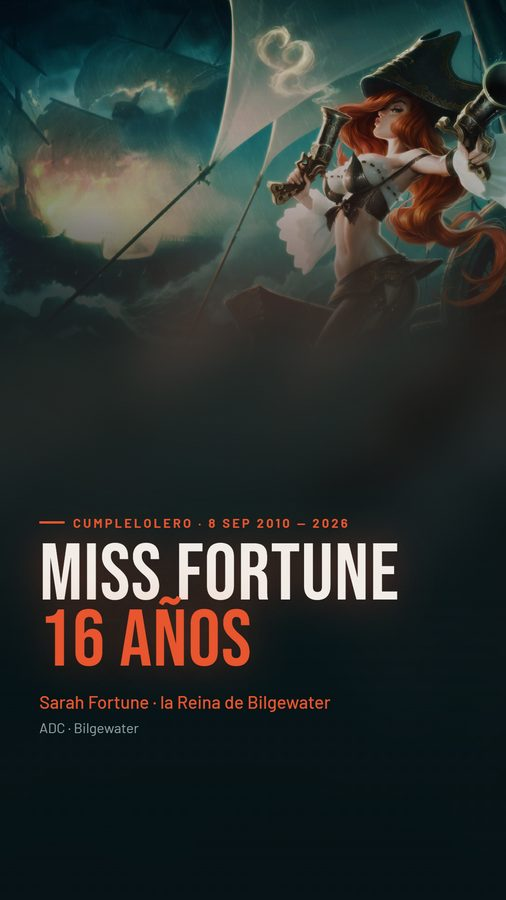
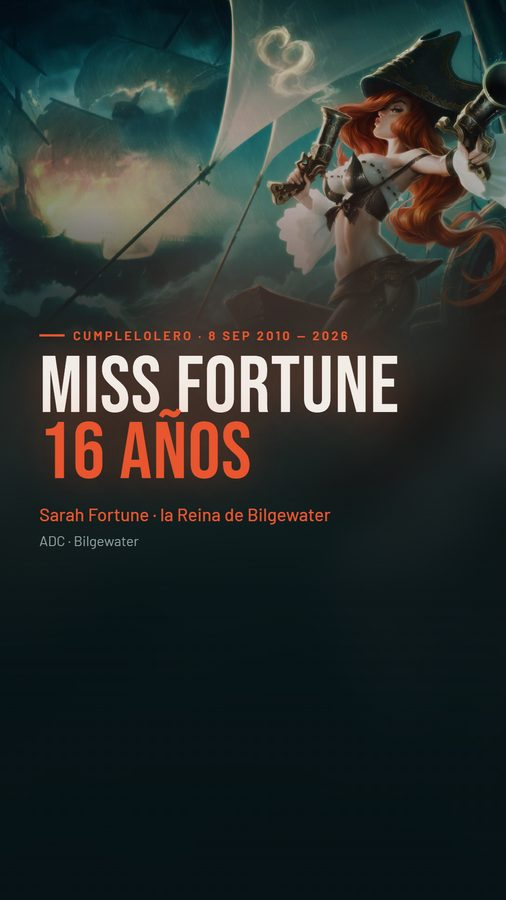
Syndra: titular arriba y el historial de rangos del one trick
El titular de portada y cierre se quedaba flotando abajo con un hueco
grande entre la imagen y el texto. Sin margin-top auto el bloque se
centra en la banda segura y aterriza justo donde la imagen se
desvanece. Mismo arreglo en missfortune, que tenia el mismo patron.

Y faltaba data: el historial de temporadas del one trick estaba
definido en el generador pero nunca se uso, porque la lamina del OTP
se quedo solo con la comparacion de puntos y ya no tenia sitio. Ahora
tiene lamina propia con las seis temporadas y sus emblemas, la racha
de la ultima semana y el bloque LATAM. El deck pasa a once laminas.

El array de rangos venia sin el nombre del emblema y el QA lo cazo:
las rutas salian como assets/emblems/true.

Changed region(s): [[0.0593, 0.3422, 0.8004, 0.7467], [0.0593, 0.7778, 0.6522, 0.84]]

diff --git a/syndra/index.html b/syndra/index.html
@@ -42,7 +42,7 @@
     <div style="position: absolute; inset: 0; background: linear-gradient(180deg, rgba(13,10,26,0.18) 0%, rgba(13,10,26,0.42) 34%, rgba(13,10,26,0.92) 66%, rgba(13,10,26,0.99) 100%);"></div>
     </div>
     <div data-a="ghost" style="position: absolute; inset: 0; background: radial-gradient(120% 45% at 50% 30%, #C9A7FF29 0%, rgba(0,0,0,0) 65%); pointer-events: none;"></div>
-    <div style="position: relative; margin-top: auto;">
+    <div style="position: relative;">
       <div data-a="up" style="display: flex; align-items: center; gap: 18px; margin-bottom: 26px;">
       <span style="width: 54px; height: 5px; background: #C9A7FF;"></span>
       <span style="font-family: 'Barlow', ui-sans-serif, system-ui, sans-serif; font-size: 27px; font-weight: 700; letter-spacing: 5px; text-transform: uppercase; color: #C9A7FF;">Cumplelolero · 9 sep 2012 — 2026</span>
@@ -249,7 +249,7 @@
         <span style="font-family: 'Bebas Neue', Impact, sans-serif; font-size: 88px; line-height: 0.95; color: #EFEAF7;">HUGH AKSTON</span>
         <span style="font-family: 'Bebas Neue', Impact, sans-serif; font-size: 88px; line-height: 0.95; color: #C9A7FF;">#NA1</span>
       </div>
-      <p data-nombre style="margin: 12px 0 0; font-size: 27px; font-weight: 500; color: #9187A3;">Norteamérica · Master 130 LP · top 0,58% del servidor · 85% mid</p>
+      <p data-nombre style="margin: 12px 0 0; font-size: 27px; font-weight: 500; color: #9187A3;">Norteamérica · nivel de invocador 1 386 · 85% mid · 98% maga</p>
 
       <div style="margin-top: 34px; display: flex; gap: 20px;">
         <div data-panel style="flex: 1; min-width: 0; padding: 30px 26px; border-radius: 18px; background: #171029D9; border: 1px solid rgba(201,167,255,0.28);">
@@ -273,7 +273,69 @@
         <div style="flex: 1; font-size: 26px; font-weight: 400; color: #9187A3; line-height: 1.4;">Es <strong style="color: #EFEAF7;">el dominio más aplastante</strong> de su propio ranking en toda la serie.</div>
       </div>
 
-      <div data-latam style="margin-top: 30px; display: flex; align-items: center; gap: 22px; padding: 24px 28px; border-radius: 18px; background: #8B3FD11F; border: 1px solid #8B3FD180;">
+    </div>
+  </section>
+
+  <section data-label="Y este sí es bueno" data-screen-label="09 · El rango" data-speaker-notes="Y este si es bueno, esta en Master y es top cero punto cinco por ciento de su servidor. Y el dato que nos toca, porque el cuarto mejor Syndra del mundo es del servidor del sur." style="background: #0D0A1A; font-family: 'Barlow', ui-sans-serif, system-ui, sans-serif; color: #EFEAF7; display: flex; flex-direction: column; justify-content: center; padding: 300px 84px 350px; box-sizing: border-box; overflow: hidden; ">
+    <div data-a="ghost" style="position: absolute; inset: 0; background: radial-gradient(115% 55% at 50% 40%, #C9A7FF29 0%, rgba(0,0,0,0) 65%); pointer-events: none;"></div>
+    <div style="position: relative;">
+      <div data-a="up" style="display: flex; align-items: center; gap: 18px; margin-bottom: 26px;">
+      <span style="width: 54px; height: 5px; background: #C9A7FF;"></span>
+      <span style="font-family: 'Barlow', ui-sans-serif, system-ui, sans-serif; font-size: 27px; font-weight: 700; letter-spacing: 5px; text-transform: uppercase; color: #C9A7FF;">Y este sí es bueno</span>
+    </div>
+      <h2 data-a="up2" style="margin: 0; font-family: 'Bebas Neue', Impact, sans-serif; font-size: 88px; font-weight: 400; line-height: 0.92; letter-spacing: 1px; text-transform: uppercase; color: #EFEAF7;">Master, y <span style="color: #C9A7FF;">top 0,58%</span><br>de su servidor</h2>
+
+      <div style="margin-top: 40px; display: flex; flex-direction: column; gap: 12px;">
+        
+        <div data-rango style="display: flex; align-items: center; gap: 16px; padding: 12px 18px; border-radius: 14px; background: #C9A7FF1A; border: 1px solid #C9A7FF66;">
+          <img data-src="assets/emblems/master.png" alt="Master · 130 LP" style="width: 62px; height: 62px; object-fit: contain; flex: none;">
+          <span style="flex: none; width: 118px; font-size: 24px; font-weight: 600; color: #9187A3;">S2026</span>
+          <span style="flex: 1; font-size: 29px; font-weight: 700; color: #C9A7FF;">Master · 130 LP  ◄</span>
+        </div>
+        <div data-rango style="display: flex; align-items: center; gap: 16px; padding: 12px 18px; border-radius: 14px; border: 1px solid rgba(255,255,255,0.06);">
+          <img data-src="assets/emblems/emerald.png" alt="Esmeralda 1" style="width: 62px; height: 62px; object-fit: contain; flex: none;">
+          <span style="flex: none; width: 118px; font-size: 24px; font-weight: 600; color: #9187A3;">S2025</span>
+          <span style="flex: 1; font-size: 29px; font-weight: 500; color: #EFEAF7;">Esmeralda 1</span>
+        </div>
+        <div data-rango style="display: flex; align-items: center; gap: 16px; padding: 12px 18px; border-radius: 14px; border: 1px solid rgba(255,255,255,0.06);">
+          <img data-src="assets/emblems/diamond.png" alt="Diamante 4" style="width: 62px; height: 62px; object-fit: contain; flex: none;">
+          <span style="flex: none; width: 118px; font-size: 24px; font-weight: 600; color: #9187A3;">S2024 S3</span>
+          <span style="flex: 1; font-size: 29px; font-weight: 500; color: #EFEAF7;">Diamante 4</span>
+        </div>
+        <div data-rango style="display: flex; align-items: center; gap: 16px; padding: 12px 18px; border-radius: 14px; border: 1px solid rgba(255,255,255,0.06);">
+          <img data-src="assets/emblems/emerald.png" alt="Esmeralda 2" style="width: 62px; height: 62px; object-fit: contain; flex: none;">
+          <span style="flex: none; width: 118px; font-size: 24px; font-weight: 600; color: #9187A3;">S2024 S2</span>
+          <span style="flex: 1; font-size: 29px; font-weight: 500; color: #EFEAF7;">Esmeralda 2</span>
+        </div>
+        <div data-rango style="display: flex; align-items: center; gap: 16px; padding: 12px 18px; border-radius: 14px; border: 1px solid rgba(255,255,255,0.06);">
+          <img data-src="assets/emblems/diamond.png" alt="Diamante 3" style="width: 62px; height: 62px; object-fit: contain; flex: none;">
+          <span style="flex: none; width: 118px; font-size: 24px; font-weight: 600; color: #9187A3;">S2024 S1</span>
+          <span style="flex: 1; font-size: 29px; font-weight: 500; color: #EFEAF7;">Diamante 3</span>
+        </div>
+        <div data-rango style="display: flex; align-items: center; gap: 16px; padding: 12px 18px; border-radius: 14px; background: #C9A7FF1A; border: 1px solid #C9A7FF66;">
+          <img data-src="assets/emblems/master.png" alt="Master" style="width: 62px; height: 62px; object-fit: contain; flex: none;">
+          <span style="flex: none; width: 118px; font-size: 24px; font-weight: 600; color: #9187A3;">S2023 S2</span>
+          <span style="flex: 1; font-size: 29px; font-weight: 700; color: #C9A7FF;">Master  ◄</span>
+        </div>
+      </div>
+
+      <div data-racha style="margin-top: 30px; display: flex; gap: 16px;">
+        
+        <div style="flex: 1; padding: 20px 14px; border-radius: 14px; background: rgba(255,255,255,0.03); border: 1px solid rgba(255,255,255,0.08); text-align: center;">
+          <div style="font-family: 'Bebas Neue', Impact, sans-serif; font-size: 50px; line-height: 1; color: #C9A7FF;">8 V — 2 D</div>
+          <div style="margin-top: 4px; font-size: 19px; font-weight: 600; letter-spacing: 1px; text-transform: uppercase; color: #9187A3;">la última semana</div>
+        </div>
+        <div style="flex: 1; padding: 20px 14px; border-radius: 14px; background: rgba(255,255,255,0.03); border: 1px solid rgba(255,255,255,0.08); text-align: center;">
+          <div style="font-family: 'Bebas Neue', Impact, sans-serif; font-size: 50px; line-height: 1; color: #C9A7FF;">70 %</div>
+          <div style="margin-top: 4px; font-size: 19px; font-weight: 600; letter-spacing: 1px; text-transform: uppercase; color: #9187A3;">en sus últimas 20</div>
+        </div>
+        <div style="flex: 1; padding: 20px 14px; border-radius: 14px; background: rgba(255,255,255,0.03); border: 1px solid rgba(255,255,255,0.08); text-align: center;">
+          <div style="font-family: 'Bebas Neue', Impact, sans-serif; font-size: 50px; line-height: 1; color: #C9A7FF;">122×</div>
+          <div style="margin-top: 4px; font-size: 19px; font-weight: 600; letter-spacing: 1px; text-transform: uppercase; color: #9187A3;">más que su 2º campeón</div>
+        </div>
+      </div>
+
+      <div data-latam style="margin-top: 28px; display: flex; align-items: center; gap: 22px; padding: 24px 28px; border-radius: 18px; background: #8B3FD11F; border: 1px solid #8B3FD180;">
         <span style="flex: none; font-family: 'Bebas Neue', Impact, sans-serif; font-size: 54px; line-height: 1; color: #C9A7FF;">#4</span>
         <span style="flex: none; background: #C9A7FF; color: #0D0A1A; font-size: 21px; font-weight: 800; border-radius: 8px; padding: 5px 14px; letter-spacing: 1px;">LAS</span>
         <span style="flex: 1; font-size: 27px; font-weight: 400; color: #9187A3; line-height: 1.35;">Y el dato que nos toca: <strong style="color: #EFEAF7;">el cuarto mejor Syndra del mundo</strong> es del servidor del sur.</span>
@@ -281,7 +343,7 @@
     </div>
   </section>
 
-  <section data-label="Las skins" data-screen-label="09 · Las skins" data-speaker-notes="De skins tiene trece en total y nueve que puedes comprar, que te saldrian en unos ochenta y tres dolares. Pero la buena esta en la boveda, porque Syndra tiene skin de campeon del mundo. Cuando SKT gano el mundial de dos mil dieciseis, Faker la eligio para su coleccion." style="background: #0D0A1A; font-family: 'Barlow', ui-sans-serif, system-ui, sans-serif; color: #EFEAF7; display: flex; flex-direction: column; justify-content: center; padding: 300px 84px 350px; box-sizing: border-box; overflow: hidden; ">
+  <section data-label="Las skins" data-screen-label="10 · Las skins" data-speaker-notes="De skins tiene trece en total y nueve que puedes comprar, que te saldrian en unos ochenta y tres dolares. Pero la buena esta en la boveda, porque Syndra tiene skin de campeon del mundo. Cuando SKT gano el mundial de dos mil dieciseis, Faker la eligio para su coleccion." style="background: #0D0A1A; font-family: 'Barlow', ui-sans-serif, system-ui, sans-serif; color: #EFEAF7; display: flex; flex-direction: column; justify-content: center; padding: 300px 84px 350px; box-sizing: border-box; overflow: hidden; ">
     <div data-a="ghost" style="position: absolute; inset: 0; background: radial-gradient(115% 58% at 50% 38%, #C9A7FF29 0%, rgba(0,0,0,0) 65%); pointer-events: none;"></div>
     <div style="position: relative;">
       <div data-a="up" style="display: flex; align-items: center; gap: 18px; margin-bottom: 26px;">
@@ -347,7 +409,7 @@
     </div>
   </section>
 
-  <section data-label="Cierre" data-screen-label="10 · Cierre" data-speaker-notes="Ni pedo, solo queda decir gigi easy, tirenme un follow o les voy a meter la cuarta, chao." style="background: #0D0A1A; font-family: 'Barlow', ui-sans-serif, system-ui, sans-serif; color: #EFEAF7; display: flex; flex-direction: column; justify-content: center; padding: 300px 84px 350px; box-sizing: border-box; overflow: hidden; align-items: center; text-align: center;">
+  <section data-label="Cierre" data-screen-label="11 · Cierre" data-speaker-notes="Ni pedo, solo queda decir gigi easy, tirenme un follow o les voy a meter la cuarta, chao." style="background: #0D0A1A; font-family: 'Barlow', ui-sans-serif, system-ui, sans-serif; color: #EFEAF7; display: flex; flex-direction: column; justify-content: center; padding: 300px 84px 350px; box-sizing: border-box; overflow: hidden; align-items: center; text-align: center;">
     
     <div style="position: absolute; inset: 0; overflow: hidden; pointer-events: none;">
     <div data-fondo style="position: absolute; inset: -60px; background-image: url('assets/Syndra_44.jpg'); background-size: cover; background-position: center; background-repeat: no-repeat; filter: blur(46px) saturate(0.8) brightness(0.4); transform: scale(1.08);" role="img" aria-label="Syndra Flor Espiritual"></div>
@@ -529,9 +591,18 @@
     tl.from(s.querySelector('[data-a="up"]'), { y: 24, opacity: 0, duration: 0.5 }, 0)
       .from(q(s, '[data-nombre]'), { y: 26, opacity: 0, duration: 0.55, stagger: 0.08 }, 0.08)
       .from(q(s, '[data-panel]'), { y: 30, opacity: 0, duration: 0.6, stagger: 0.14 }, 0.28)
-      .from(s.querySelector('[data-ventaja]'), { y: 26, opacity: 0, duration: 0.6 }, 0.86)
-      .from(s.querySelector('[data-latam]'), { x: -30, opacity: 0, duration: 0.6 }, 1.12);
+      .from(s.querySelector('[data-ventaja]'), { y: 26, opacity: 0, duration: 0.6 }, 0.9);
     cuentaMil(tl, s.querySelector('[data-cuenta]'), 0.42, 0.9);
+  });
+
+  // El historial: las temporadas caen en cascada y la racha y el bloque LATAM
+  // llegan después, para que primero se lea que nunca bajó de Diamante.
+  animar('Y este sí es bueno', function (tl, s) {
+    tl.from(s.querySelector('[data-a="up"]'), { y: 24, opacity: 0, duration: 0.5 }, 0)
+      .from(s.querySelector('[data-a="up2"]'), { y: 30, opacity: 0, duration: 0.6 }, 0.1)
+      .from(q(s, '[data-rango]'), { x: 28, opacity: 0, duration: 0.42, stagger: 0.09 }, 0.32)
+      .from(s.querySelector('[data-racha]'), { y: 24, opacity: 0, duration: 0.5 }, 0.92)
+      .from(s.querySelector('[data-latam]'), { x: -30, opacity: 0, duration: 0.55 }, 1.12);
   });
 
   animar('Las skins', function (tl, s) {

diff --git a/syndra/gen.js b/syndra/gen.js
@@ -92,7 +92,7 @@ slides.push(`
   <section data-label="Portada" data-screen-label="01 · Portada" data-speaker-notes="Hoy es cumpleanos de Syndra, que lleva catorce anos desde que llego a la Grieta del Invocador, y toca darle sus tres minutos de atencion." style="${seccion()}">
     ${portada('Syndra_0.jpg', 'Syndra, la Soberana Oscura')}
     ${glow(ORBE, '50% 30%', '120% 45%')}
-    <div style="position: relative; margin-top: auto;">
+    <div style="position: relative;">
       ${eyebrow('Cumplelolero · 9 sep 2012 — 2026')}
       <h1 style="margin: 0; font-family: ${DISPLAY}; font-size: 196px; font-weight: 400; line-height: 0.82; letter-spacing: 2px; color: ${BONE}; text-shadow: 0 0 90px rgba(201,167,255,0.45);"><span data-linea style="display: block;">SYNDRA</span><span data-linea style="display: block; color: ${ORBE};">14 AÑOS</span></h1>
       <p data-sub style="margin: 34px 0 0; font-size: 38px; font-weight: 500; color: ${ORBE}; line-height: 1.3;">La Soberana Oscura</p>
@@ -242,12 +242,12 @@ slides.push(`
 
 // ── 8 · El one trick más dominante de la serie ───────────────────────────
 const rangos = [
-  ['S2026', 'Master · 130 LP', true],
-  ['S2025', 'Esmeralda 1', false],
-  ['S2024 S3', 'Diamante 4', false],
-  ['S2024 S2', 'Esmeralda 2', false],
-  ['S2024 S1', 'Diamante 3', false],
-  ['S2023 S2', 'Master', true],
+  ['S2026', 'Master · 130 LP', 'master.png', true],
+  ['S2025', 'Esmeralda 1', 'emerald.png', false],
+  ['S2024 S3', 'Diamante 4', 'diamond.png', false],
+  ['S2024 S2', 'Esmeralda 2', 'emerald.png', false],
+  ['S2024 S1', 'Diamante 3', 'diamond.png', false],
+  ['S2023 S2', 'Master', 'master.png', true],
 ];
 
 slides.push(`
@@ -259,7 +259,7 @@ slides.push(`
         <span style="font-family: ${DISPLAY}; font-size: 88px; line-height: 0.95; color: ${BONE};">HUGH AKSTON</span>
         <span style="font-family: ${DISPLAY}; font-size: 88px; line-height: 0.95; color: ${ORBE};">#NA1</span>
       </div>
-      <p data-nombre style="margin: 12px 0 0; font-size: 27px; font-weight: 500; color: ${MUTED};">Norteamérica · Master 130 LP · top 0,58% del servidor · 85% mid</p>
+      <p data-nombre style="margin: 12px 0 0; font-size: 27px; font-weight: 500; color: ${MUTED};">Norteamérica · nivel de invocador 1 386 · 85% mid · 98% maga</p>
 
       <div style="margin-top: 34px; display: flex; gap: 20px;">
         <div data-panel style="flex: 1; min-width: 0; padding: 30px 26px; border-radius: 18px; background: ${PANEL}D9; border: 1px solid rgba(201,167,255,0.28);">
@@ -283,7 +283,35 @@ slides.push(`
         <div style="flex: 1; font-size: 26px; font-weight: 400; color: ${MUTED}; line-height: 1.4;">Es <strong style="color: ${BONE};">el dominio más aplastante</strong> de su propio ranking en toda la serie.</div>
       </div>
 
-      <div data-latam style="margin-top: 30px; display: flex; align-items: center; gap: 22px; padding: 24px 28px; border-radius: 18px; background: ${SOBERANA}1F; border: 1px solid ${SOBERANA}80;">
+    </div>
+  </section>`);
+
+// ── 9 · Y este sí es bueno: el historial de rangos ───────────────────────
+slides.push(`
+  <section data-label="Y este sí es bueno" data-screen-label="09 · El rango" data-speaker-notes="Y este si es bueno, esta en Master y es top cero punto cinco por ciento de su servidor. Y el dato que nos toca, porque el cuarto mejor Syndra del mundo es del servidor del sur." style="${seccion()}">
+    ${glow(ORBE, '50% 40%', '115% 55%')}
+    <div style="position: relative;">
+      ${eyebrow('Y este sí es bueno')}
+      ${titulo('Master, y <span style="color: ' + ORBE + ';">top 0,58%</span><br>de su servidor', 88)}
+
+      <div style="margin-top: 40px; display: flex; flex-direction: column; gap: 12px;">
+        ${rangos.map(([temp, nombre, emblema, top]) => `
+        <div data-rango style="display: flex; align-items: center; gap: 16px; padding: 12px 18px; border-radius: 14px; ${top ? `background: ${ORBE}1A; border: 1px solid ${ORBE}66;` : 'border: 1px solid rgba(255,255,255,0.06);'}">
+          <img src="assets/emblems/${emblema}" alt="${nombre}" style="width: 62px; height: 62px; object-fit: contain; flex: none;">
+          <span style="flex: none; width: 118px; font-size: 24px; font-weight: 600; color: ${MUTED};">${temp}</span>
+          <span style="flex: 1; font-size: 29px; font-weight: ${top ? '700' : '500'}; color: ${top ? ORBE : BONE};">${nombre}${top ? '  ◄' : ''}</span>
+        </div>`).join('')}
+      </div>
+
+      <div data-racha style="margin-top: 30px; display: flex; gap: 16px;">
+        ${[['8 V — 2 D', 'la última semana'], ['70 %', 'en sus últimas 20'], ['122×', 'más que su 2º campeón']].map(([cifra, pie]) => `
+        <div style="flex: 1; padding: 20px 14px; border-radius: 14px; background: rgba(255,255,255,0.03); border: 1px solid rgba(255,255,255,0.08); text-align: center;">
+          <div style="font-family: ${DISPLAY}; font-size: 50px; line-height: 1; color: ${ORBE};">${cifra}</div>
+          <div style="margin-top: 4px; font-size: 19px; font-weight: 600; letter-spacing: 1px; text-transform: uppercase; color: ${MUTED};">${pie}</div>
+        </div>`).join('')}
+      </div>
+
+      <div data-latam style="margin-top: 28px; display: flex; align-items: center; gap: 22px; padding: 24px 28px; border-radius: 18px; background: ${SOBERANA}1F; border: 1px solid ${SOBERANA}80;">
         <span style="flex: none; font-family: ${DISPLAY}; font-size: 54px; line-height: 1; color: ${ORBE};">#4</span>
         <span style="flex: none; background: ${ORBE}; color: ${BG}; font-size: 21px; font-weight: 800; border-radius: 8px; padding: 5px 14px; letter-spacing: 1px;">LAS</span>
         <span style="flex: 1; font-size: 27px; font-weight: 400; color: ${MUTED}; line-height: 1.35;">Y el dato que nos toca: <strong style="color: ${BONE};">el cuarto mejor Syndra del mundo</strong> es del servidor del sur.</span>
@@ -301,7 +329,7 @@ const skins = [
 ];
 
 slides.push(`
-  <section data-label="Las skins" data-screen-label="09 · Las skins" data-speaker-notes="De skins tiene trece en total y nueve que puedes comprar, que te saldrian en unos ochenta y tres dolares. Pero la buena esta en la boveda, porque Syndra tiene skin de campeon del mundo. Cuando SKT gano el mundial de dos mil dieciseis, Faker la eligio para su coleccion." style="${seccion()}">
+  <section data-label="Las skins" data-screen-label="10 · Las skins" data-speaker-notes="De skins tiene trece en total y nueve que puedes comprar, que te saldrian en unos ochenta y tres dolares. Pero la buena esta en la boveda, porque Syndra tiene skin de campeon del mundo. Cuando SKT gano el mundial de dos mil dieciseis, Faker la eligio para su coleccion." style="${seccion()}">
     ${glow(ORBE, '50% 38%', '115% 58%')}
     <div style="position: relative;">
       ${eyebrow('Las skins')}
@@ -334,7 +362,7 @@ slides.push(`
 
 // ── 10 · Cierre ──────────────────────────────────────────────────────────
 slides.push(`
-  <section data-label="Cierre" data-screen-label="10 · Cierre" data-speaker-notes="Ni pedo, solo queda decir gigi easy, tirenme un follow o les voy a meter la cuarta, chao." style="${seccion('align-items: center; text-align: center;')}">
+  <section data-label="Cierre" data-screen-label="11 · Cierre" data-speaker-notes="Ni pedo, solo queda decir gigi easy, tirenme un follow o les voy a meter la cuarta, chao." style="${seccion('align-items: center; text-align: center;')}">
     ${portada('Syndra_44.jpg', 'Syndra Flor Espiritual', 'center 18%')}
     ${glow(ORBE, '50% 42%', '120% 55%')}
     <div style="position: relative; display: flex; flex-direction: column; align-items: center;">
@@ -447,9 +475,18 @@ const coreografias = `<script>
     tl.from(s.querySelector('[data-a="up"]'), { y: 24, opacity: 0, duration: 0.5 }, 0)
       .from(q(s, '[data-nombre]'), { y: 26, opacity: 0, duration: 0.55, stagger: 0.08 }, 0.08)
       .from(q(s, '[data-panel]'), { y: 30, opacity: 0, duration: 0.6, stagger: 0.14 }, 0.28)
-      .from(s.querySelector('[data-ventaja]'), { y: 26, opacity: 0, duration: 0.6 }, 0.86)
-      .from(s.querySelector('[data-latam]'), { x: -30, opacity: 0, duration: 0.6 }, 1.12);
+      .from(s.querySelector('[data-ventaja]'), { y: 26, opacity: 0, duration: 0.6 }, 0.9);
     cuentaMil(tl, s.querySelector('[data-cuenta]'), 0.42, 0.9);
+  });
+
+  // El historial: las temporadas caen en cascada y la racha y el bloque LATAM
+  // llegan después, para que primero se lea que nunca bajó de Diamante.
+  animar('Y este sí es bueno', function (tl, s) {
+    tl.from(s.querySelector('[data-a="up"]'), { y: 24, opacity: 0, duration: 0.5 }, 0)
+      .from(s.querySelector('[data-a="up2"]'), { y: 30, opacity: 0, duration: 0.6 }, 0.1)
+      .from(q(s, '[data-rango]'), { x: 28, opacity: 0, duration: 0.42, stagger: 0.09 }, 0.32)
+      .from(s.querySelector('[data-racha]'), { y: 24, opacity: 0, duration: 0.5 }, 0.92)
+      .from(s.querySelector('[data-latam]'), { x: -30, opacity: 0, duration: 0.55 }, 1.12);
   });
 
   animar('Las skins', function (tl, s) {

diff --git a/index.html b/index.html
@@ -254,7 +254,7 @@ const DECKS = [
     desc: 'Diez años en el juego y casi diez mil en el lore: el señor de la guerra que taló el Sauce Dios y el one trick que menos puntos tiene y es el único Challenger.', acento: '#7DD66B', glow: '125, 214, 107' },
     { grupo: 'Creador de contenido', ruta: 'missfortune/', titulo: 'Miss Fortune cumple 16 años', serie: 'CUMPLELOLERO · 09', datos: 'CUMPLELOLERO 09 · 9:16 · 10 DIAP · GSAP', meta: '9:16 · 10 DIAPOSITIVAS · SEP 2026',
     desc: 'Mata con las pistolas que su madre le fabricó a Gangplank, y el mejor Miss Fortune del planeta es latino y nunca ha salido de Plata.', acento: '#E8552E', glow: '232, 85, 46' },
-    { grupo: 'Creador de contenido', ruta: 'syndra/', titulo: 'Syndra cumple 14 años', serie: 'CUMPLELOLERO · 10', datos: 'CUMPLELOLERO 10 · 9:16 · 10 DIAP · GSAP', meta: '9:16 · 10 DIAPOSITIVAS · SEP 2026',
+    { grupo: 'Creador de contenido', ruta: 'syndra/', titulo: 'Syndra cumple 14 años', serie: 'CUMPLELOLERO · 10', datos: 'CUMPLELOLERO 10 · 9:16 · 11 DIAP · GSAP', meta: '9:16 · 11 DIAPOSITIVAS · SEP 2026',
     desc: 'Su nombre significa Destrucción, la castigaron toda la vida por tener demasiado poder, y mañana Riot le hace exactamente lo mismo que su maestro.', acento: '#C9A7FF', glow: '201, 167, 255' },
     { grupo: 'Creador de contenido', ruta: 'skins/', titulo: 'Los campeones con más skins', serie: 'DATOS CURIOSOS · 01', datos: 'DATOS CURIOSOS 01 · 9:16 · 4 DIAP · AGO 26', meta: '9:16 · 4 DIAPOSITIVAS · AGO 2026',
     desc: 'El triple empate que se rompe al descontar bóveda y prestigio, con los collages completos de Lux, Ahri y MF.', acento: '#E75FB4', glow: '231, 95, 180' },

diff --git a/missfortune/gen.js b/missfortune/gen.js
@@ -86,7 +86,7 @@ slides.push(`
   <section data-label="Portada" data-screen-label="01 · Portada" data-speaker-notes="Hoy es cumpleanos de Miss Fortune, que lleva dieciseis anos desde que llego a la Grieta del Invocador, y toca darle sus tres minutos de atencion." style="${seccion()}">
     ${portada('MissFortune_0.jpg', 'Miss Fortune')}
     ${glow(FUEGO, '50% 30%', '120% 45%')}
-    <div style="position: relative; margin-top: auto;">
+    <div style="position: relative;">
       ${eyebrow('Cumplelolero · 8 sep 2010 — 2026')}
       <h1 style="margin: 0; font-family: ${DISPLAY}; font-size: 172px; font-weight: 400; line-height: 0.82; letter-spacing: 2px; color: ${BONE}; text-shadow: 0 0 90px rgba(232,85,46,0.42);"><span data-linea style="display: block;">MISS FORTUNE</span><span data-linea style="display: block; color: ${FUEGO};">16 AÑOS</span></h1>
       <p data-sub style="margin: 34px 0 0; font-size: 38px; font-weight: 500; color: ${FUEGO}; line-height: 1.3;">Sarah Fortune · la Reina de Bilgewater</p>

diff --git a/missfortune/index.html b/missfortune/index.html
@@ -42,7 +42,7 @@
     <div style="position: absolute; inset: 0; background: linear-gradient(180deg, rgba(7,19,22,0.18) 0%, rgba(7,19,22,0.42) 34%, rgba(7,19,22,0.92) 66%, rgba(7,19,22,0.99) 100%);"></div>
     </div>
     <div data-a="ghost" style="position: absolute; inset: 0; background: radial-gradient(120% 45% at 50% 30%, #E8552E29 0%, rgba(0,0,0,0) 65%); pointer-events: none;"></div>
-    <div style="position: relative; margin-top: auto;">
+    <div style="position: relative;">
       <div data-a="up" style="display: flex; align-items: center; gap: 18px; margin-bottom: 26px;">
       <span style="width: 54px; height: 5px; background: #E8552E;"></span>
       <span style="font-family: 'Barlow', ui-sans-serif, system-ui, sans-serif; font-size: 27px; font-weight: 700; letter-spacing: 5px; text-transform: uppercase; color: #E8552E;">Cumplelolero · 8 sep 2010 — 2026</span>

diff --git a/README.md b/README.md
@@ -21,7 +21,7 @@ Portafolio de presentaciones web interactivas generadas con IA. La raíz es una 
 /janna/              Janna cumple 17 años (apoyo visual para TikTok, animado) · 9:16 · 11 slides
 /ivern/              Ivern cumple 10 años (apoyo visual para TikTok, animado) · 9:16 · 10 slides
 /missfortune/        Miss Fortune cumple 16 años (apoyo visual para TikTok, animado) · 9:16 · 10 slides
-/syndra/             Syndra cumple 14 años (apoyo visual para TikTok, animado) · 9:16 · 10 slides
+/syndra/             Syndra cumple 14 años (apoyo visual para TikTok, animado) · 9:16 · 11 slides
 /skins/              Los campeones con más skins (apoyo visual para TikTok) · 9:16 · 4 slides
 /caras/              Las skins más caras del LoL (apoyo visual para TikTok) · 9:16 · 5 slides
 /semana34/           Reporte semanal Jira: semana 34 (18–24 ago 2026) · 16:9 · 8 slides
